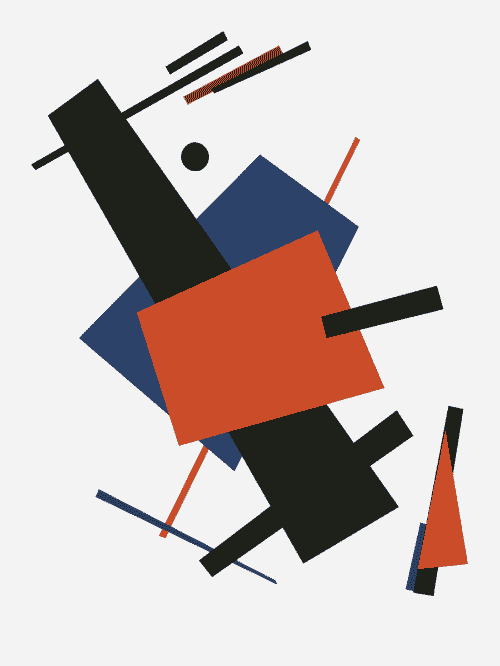
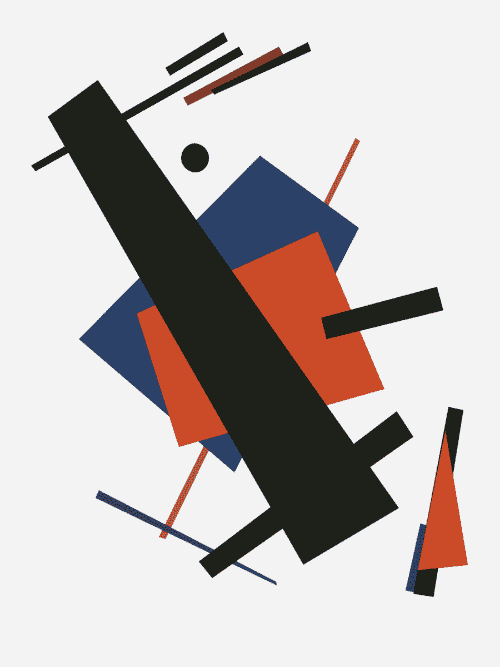
fix z-index & preview image

diff --git a/docs/css/style.css b/docs/css/style.css
@@ -1,1 +1,1 @@
-*,:after,:before{box-sizing:border-box}body,ul{margin:0;padding:0}li{list-style:none}body{background-color:#263238;color:#fff;font-family:'B612 Mono',monospace}.title{margin-top:32px;text-align:center}label{line-height:170%}.toggle,.toggles{display:flex;justify-content:center}.toggles{text-align:center;margin:0 auto 24px}.toggle{margin:0 16px}.label{margin-right:10px}.reset{width:72px;height:28px;border-radius:8px;font-size:14px;cursor:pointer}#super,.checkbox{position:absolute;z-index:-1;opacity:0;margin:10px 0 0 20px}#super+label{position:relative;cursor:pointer}#super+label:after,#super+label:before{position:absolute;top:1px;transition:.2s}#super+label:before{border-radius:4px;background:#fff;box-shadow:inset 0 2px 3px rgba(0,0,0,.2);content:'';left:0;width:26px;height:26px}#super+label:after{content:'✔';color:#222;left:2px;width:24px;height:24px;opacity:0}#super:checked+label:after{opacity:1}#super:focus+label:before{box-shadow:inset 0 2px 3px rgba(0,0,0,.2),0 0 0 2px rgba(0,217,255,.7)}.checkbox+label{position:relative;padding:0 0 0 60px;cursor:pointer}.checkbox:disabled+label{cursor:not-allowed}.checkbox:disabled+label:before{background:#eee}.checkbox+label:before{content:'';position:absolute;top:1px;left:0;width:50px;height:26px;border-radius:13px;background:#d46868;box-shadow:inset 0 2px 3px rgba(0,0,0,.2);transition:.2s}.checkbox+label:after{content:'';position:absolute;top:3px;left:2px;width:22px;height:22px;border-radius:10px;background:#fff;box-shadow:0 2px 5px rgba(0,0,0,.3);transition:.2s}.checkbox:checked+label:after{left:26px}.checkbox:focus+label:before{box-shadow:inset 0 2px 3px rgba(0,0,0,.2),0 0 0 2px rgba(0,217,255,.7)}.pictureContainer,.pictures{width:100%;display:flex;justify-content:center;align-items:center}.pictures{min-width:288px;max-height:calc(100% - 90px);height:100%}.pictureContainer{height:calc(100% - 32px)}.description{margin:16px;text-align:center}.name{font-size:18px;font-weight:700;text-align:center}.author{font-size:14px}.figure,.picture{will-change:transform}.picture{width:450px;min-height:288px;height:600px;margin:0 16px;font-size:0;box-shadow:0 0 45px rgba(0,0,0,.8);transform-style:preserve-3d;transform:perspective(1000px);overflow:hidden}.picture.tilt{overflow:visible}.figure{position:absolute;background-size:contain;background-repeat:no-repeat}#id0{background:#d2cec2}#id0 .fig0{top:90px;left:90px;width:200px;height:200px;background-image:url(/suprellaxism/pictures/pic0/fig0.svg)}#id0 .fig1{top:330px;left:245px;width:120px;height:120px;background-image:url(/suprellaxism/pictures/pic0/fig1.svg)}#id1{background:#d1ccc4}#id1 .fig0{top:19px;left:189px;width:189px;height:201px;background-image:url(/suprellaxism/pictures/pic1/fig0.svg);z-index:1}#id1 .fig1{top:116px;left:78px;width:240px;height:136px;background-image:url(/suprellaxism/pictures/pic1/fig1.svg);z-index:3}#id1 .fig2{top:223px;left:73px;width:254px;height:151px;background-image:url(/suprellaxism/pictures/pic1/fig2.svg);z-index:3}#id1 .fig3{top:106px;left:68px;width:237px;height:435px;background-image:url(/suprellaxism/pictures/pic1/fig3.svg);z-index:2}#id1 .fig4{top:406px;left:36px;width:234px;height:153px;background-image:url(/suprellaxism/pictures/pic1/fig4.svg);z-index:1}#id2{background:#f3f3f3}#id2 .fig0{top:29px;left:149px;width:57px;height:40px;background-image:url(/suprellaxism/pictures/pic2/fig0.svg);z-index:1}#id2 .fig1,#id2 .fig2{top:42px;left:28px;width:192px;height:113px;background-image:url(/suprellaxism/pictures/pic2/fig1.svg);z-index:1}#id2 .fig2{left:165px;width:92px;height:53px;background-image:url(/suprellaxism/pictures/pic2/fig2.svg)}#id2 .fig3{top:129px;left:163px;width:26px;height:27px;background-image:url(/suprellaxism/pictures/pic2/fig3.svg);z-index:1}#id2 .fig4{top:72px;left:43px;width:316px;height:436px;background-image:url(/suprellaxism/pictures/pic2/fig4.svg);z-index:3}#id2 .fig5{top:140px;left:71px;width:253px;height:286px;background-image:url(/suprellaxism/pictures/pic2/fig5.svg);z-index:2}#id2 .fig6{top:208px;left:123px;width:224px;height:195px;background-image:url(/suprellaxism/pictures/pic2/fig6.svg);z-index:3}#id2 .fig7{top:258px;left:289px;width:114px;height:48px;background-image:url(/suprellaxism/pictures/pic2/fig7.svg);z-index:5}#id2 .fig8{top:124px;left:143px;width:182px;height:365px;background-image:url(/suprellaxism/pictures/pic2/fig8.svg);z-index:1}#id2 .fig9{top:441px;left:86px;width:163px;height:87px;background-image:url(/suprellaxism/pictures/pic2/fig9.svg);z-index:2}#id2 .fig10{top:370px;left:179px;width:193px;height:151px;background-image:url(/suprellaxism/pictures/pic2/fig10.svg);z-index:3}#id2 .fig11{top:366px;left:372px;width:46px;height:178px;background-image:url(/suprellaxism/pictures/pic2/fig11.svg);z-index:2}#id2 .fig12{top:471px;left:365px;width:20px;height:64px;background-image:url(/suprellaxism/pictures/pic2/fig12.svg);z-index:1}#id2 .fig13{top:387px;left:376px;width:45px;height:131px;background-image:url(/suprellaxism/pictures/pic2/fig13.svg);z-index:3}#id2 .fig14{top:38px;left:190px;width:91px;height:47px;background-image:url(/suprellaxism/pictures/pic2/fig14.svg);z-index:2}.gallery{display:flex;justify-content:center;flex-wrap:wrap;margin-top:32px}.previewContainer{max-width:250px;width:250px;flex-grow:1;display:flex;flex-direction:column;align-items:center;margin:0 8px 16px;cursor:pointer}.previewContainer img{transition:transform .3s}.previewContainer:hover img{transform:translate(5px,5px)}.preview{width:250px;height:250px}.previewName{margin-bottom:4px;font-size:14px;font-weight:700}.previewAuthor{margin-top:4px;font-size:12px}.previewDescription{width:100%}#pre0{background-image:suprellaxism('/src/previews/pre0.svg')}#pre1{background-image:suprellaxism('/src/previews/pre1.svg')}@media screen and (max-width:414px){.name{margin-bottom:8px}.author{margin-top:8px}.picture{margin:0 -16px}}@media screen and (max-width:450px){.picture{margin-top:-100px;transform:perspective(1000px) scale(.7);direction:rtl}.description{margin-top:-80px}.gallery{margin-top:0}}@media screen and (max-width:768px){.title{margin-top:16px;font-size:20px}.toggles{flex-direction:column;margin-bottom:14px}.toggle:not(:last-child){margin:14px 16px}.toggle:last-child{margin-top:14px}.pictures{max-height:calc(100% - 32px)}.pictureContainer{flex-direction:column;margin-top:16px}.description{order:1}}.points{margin-bottom:16px}
+*,:after,:before{box-sizing:border-box}body,ul{margin:0;padding:0}li{list-style:none}body{background-color:#263238;color:#fff;font-family:'B612 Mono',monospace}.title{margin-top:32px;text-align:center}label{line-height:170%}.toggle,.toggles{display:flex;justify-content:center}.toggles{text-align:center;margin:0 auto 24px}.toggle{margin:0 16px}.label{margin-right:10px}.reset{width:72px;height:28px;border-radius:8px;font-size:14px;cursor:pointer}#super,.checkbox{position:absolute;z-index:-1;opacity:0;margin:10px 0 0 20px}#super+label{position:relative;cursor:pointer}#super+label:after,#super+label:before{position:absolute;top:1px;transition:.2s}#super+label:before{border-radius:4px;background:#fff;box-shadow:inset 0 2px 3px rgba(0,0,0,.2);content:'';left:0;width:26px;height:26px}#super+label:after{content:'✔';color:#222;left:2px;width:24px;height:24px;opacity:0}#super:checked+label:after{opacity:1}#super:focus+label:before{box-shadow:inset 0 2px 3px rgba(0,0,0,.2),0 0 0 2px rgba(0,217,255,.7)}.checkbox+label{position:relative;padding:0 0 0 60px;cursor:pointer}.checkbox:disabled+label{cursor:not-allowed}.checkbox:disabled+label:before{background:#eee}.checkbox+label:before{content:'';position:absolute;top:1px;left:0;width:50px;height:26px;border-radius:13px;background:#d46868;box-shadow:inset 0 2px 3px rgba(0,0,0,.2);transition:.2s}.checkbox+label:after{content:'';position:absolute;top:3px;left:2px;width:22px;height:22px;border-radius:10px;background:#fff;box-shadow:0 2px 5px rgba(0,0,0,.3);transition:.2s}.checkbox:checked+label:after{left:26px}.checkbox:focus+label:before{box-shadow:inset 0 2px 3px rgba(0,0,0,.2),0 0 0 2px rgba(0,217,255,.7)}.pictureContainer,.pictures{width:100%;display:flex;justify-content:center;align-items:center}.pictures{min-width:288px;max-height:calc(100% - 90px);height:100%}.pictureContainer{height:calc(100% - 32px)}.description{margin:16px;text-align:center}.name{font-size:18px;font-weight:700;text-align:center}.author{font-size:14px}.figure,.picture{will-change:transform}.picture{width:450px;min-height:288px;height:600px;margin:0 16px;font-size:0;box-shadow:0 0 45px rgba(0,0,0,.8);transform-style:preserve-3d;transform:perspective(1000px);overflow:hidden}.picture.tilt{overflow:visible}.figure{position:absolute;background-size:contain;background-repeat:no-repeat}#id0{background:#d2cec2}#id0 .fig0{top:90px;left:90px;width:200px;height:200px;background-image:url(/suprellaxism/pictures/pic0/fig0.svg)}#id0 .fig1{top:330px;left:245px;width:120px;height:120px;background-image:url(/suprellaxism/pictures/pic0/fig1.svg)}#id1{background:#d1ccc4}#id1 .fig0{top:19px;left:189px;width:189px;height:201px;background-image:url(/suprellaxism/pictures/pic1/fig0.svg);z-index:1}#id1 .fig1{top:116px;left:78px;width:240px;height:136px;background-image:url(/suprellaxism/pictures/pic1/fig1.svg);z-index:3}#id1 .fig2{top:223px;left:73px;width:254px;height:151px;background-image:url(/suprellaxism/pictures/pic1/fig2.svg);z-index:3}#id1 .fig3{top:106px;left:68px;width:237px;height:435px;background-image:url(/suprellaxism/pictures/pic1/fig3.svg);z-index:2}#id1 .fig4{top:406px;left:36px;width:234px;height:153px;background-image:url(/suprellaxism/pictures/pic1/fig4.svg);z-index:1}#id2{background:#f3f3f3}#id2 .fig0{top:29px;left:149px;width:57px;height:40px;background-image:url(/suprellaxism/pictures/pic2/fig0.svg);z-index:1}#id2 .fig1,#id2 .fig2{top:42px;left:28px;width:192px;height:113px;background-image:url(/suprellaxism/pictures/pic2/fig1.svg);z-index:1}#id2 .fig2{left:165px;width:92px;height:53px;background-image:url(/suprellaxism/pictures/pic2/fig2.svg)}#id2 .fig3{top:129px;left:163px;width:26px;height:27px;background-image:url(/suprellaxism/pictures/pic2/fig3.svg);z-index:1}#id2 .fig4{top:72px;left:43px;width:316px;height:436px;background-image:url(/suprellaxism/pictures/pic2/fig4.svg);z-index:4}#id2 .fig5{top:140px;left:71px;width:253px;height:286px;background-image:url(/suprellaxism/pictures/pic2/fig5.svg);z-index:2}#id2 .fig6{top:208px;left:123px;width:224px;height:195px;background-image:url(/suprellaxism/pictures/pic2/fig6.svg);z-index:3}#id2 .fig7{top:258px;left:289px;width:114px;height:48px;background-image:url(/suprellaxism/pictures/pic2/fig7.svg);z-index:5}#id2 .fig8{top:124px;left:143px;width:182px;height:365px;background-image:url(/suprellaxism/pictures/pic2/fig8.svg);z-index:1}#id2 .fig9{top:441px;left:86px;width:163px;height:87px;background-image:url(/suprellaxism/pictures/pic2/fig9.svg);z-index:2}#id2 .fig10{top:370px;left:179px;width:193px;height:151px;background-image:url(/suprellaxism/pictures/pic2/fig10.svg);z-index:3}#id2 .fig11{top:366px;left:372px;width:46px;height:178px;background-image:url(/suprellaxism/pictures/pic2/fig11.svg);z-index:2}#id2 .fig12{top:471px;left:365px;width:20px;height:64px;background-image:url(/suprellaxism/pictures/pic2/fig12.svg);z-index:1}#id2 .fig13{top:387px;left:376px;width:45px;height:131px;background-image:url(/suprellaxism/pictures/pic2/fig13.svg);z-index:3}#id2 .fig14{top:38px;left:190px;width:91px;height:47px;background-image:url(/suprellaxism/pictures/pic2/fig14.svg);z-index:2}.gallery{display:flex;justify-content:center;flex-wrap:wrap;margin-top:32px}.previewContainer{max-width:250px;width:250px;flex-grow:1;display:flex;flex-direction:column;align-items:center;margin:0 8px 16px;cursor:pointer}.previewContainer img{transition:transform .3s}.previewContainer:hover img{transform:translate(5px,5px)}.preview{width:250px;height:250px}.previewName{margin-bottom:4px;font-size:14px;font-weight:700}.previewAuthor{margin-top:4px;font-size:12px}.previewDescription{width:100%}#pre0{background-image:suprellaxism('/src/previews/pre0.svg')}#pre1{background-image:suprellaxism('/src/previews/pre1.svg')}@media screen and (max-width:414px){.name{margin-bottom:8px}.author{margin-top:8px}.picture{margin:0 -16px}}@media screen and (max-width:450px){.picture{margin-top:-100px;transform:perspective(1000px) scale(.7);direction:rtl}.description{margin-top:-80px}.gallery{margin-top:0}}@media screen and (max-width:768px){.title{margin-top:16px;font-size:20px}.toggles{flex-direction:column;margin-bottom:14px}.toggle:not(:last-child){margin:14px 16px}.toggle:last-child{margin-top:14px}.pictures{max-height:calc(100% - 32px)}.pictureContainer{flex-direction:column;margin-top:16px}.description{order:1}}.points{margin-bottom:16px}

diff --git a/src/css/style.css b/src/css/style.css
@@ -335,7 +335,7 @@ label {
   width: 316px;
   height: 436px;
   background-image: url('/src/pictures/pic2/fig4.svg');
-  z-index: 3;
+  z-index: 4;
 }
 
 #id2 .fig5 {
